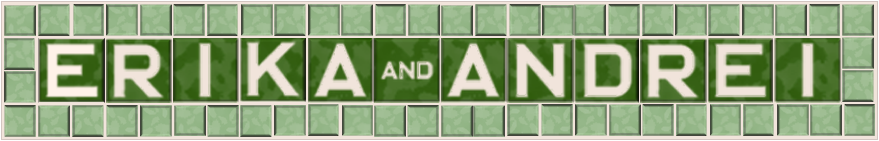
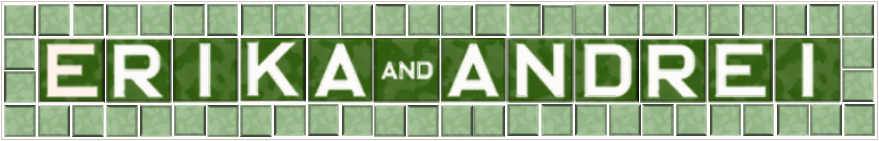
zz

diff --git a/test-size.html b/test-size.html
@@ -9,10 +9,10 @@
 <body>
     <div id='important'>
         <!-- <img id="namesPic" src="ErikaAndreiScript.png"> -->
-        <img id="namesPic" src="ErikaAndAndreiLabelWithBackground.png">
+        <img id="namesPic" style="width: 60%" src="ErikaAndAndreiLabelWithBackground.png">
         <br>
         <!-- <p><span style="font-size:5vh">Fri</span>, Aug. 23, 2024</p> -->
-        <img id="" src="ErikaAndAndreiDateWithBackground.png">
+        <img id="" style="width: 20%" src="ErikaAndAndreiDateWithBackground.png">
         <br>
         Box House Hotel
         <br>
